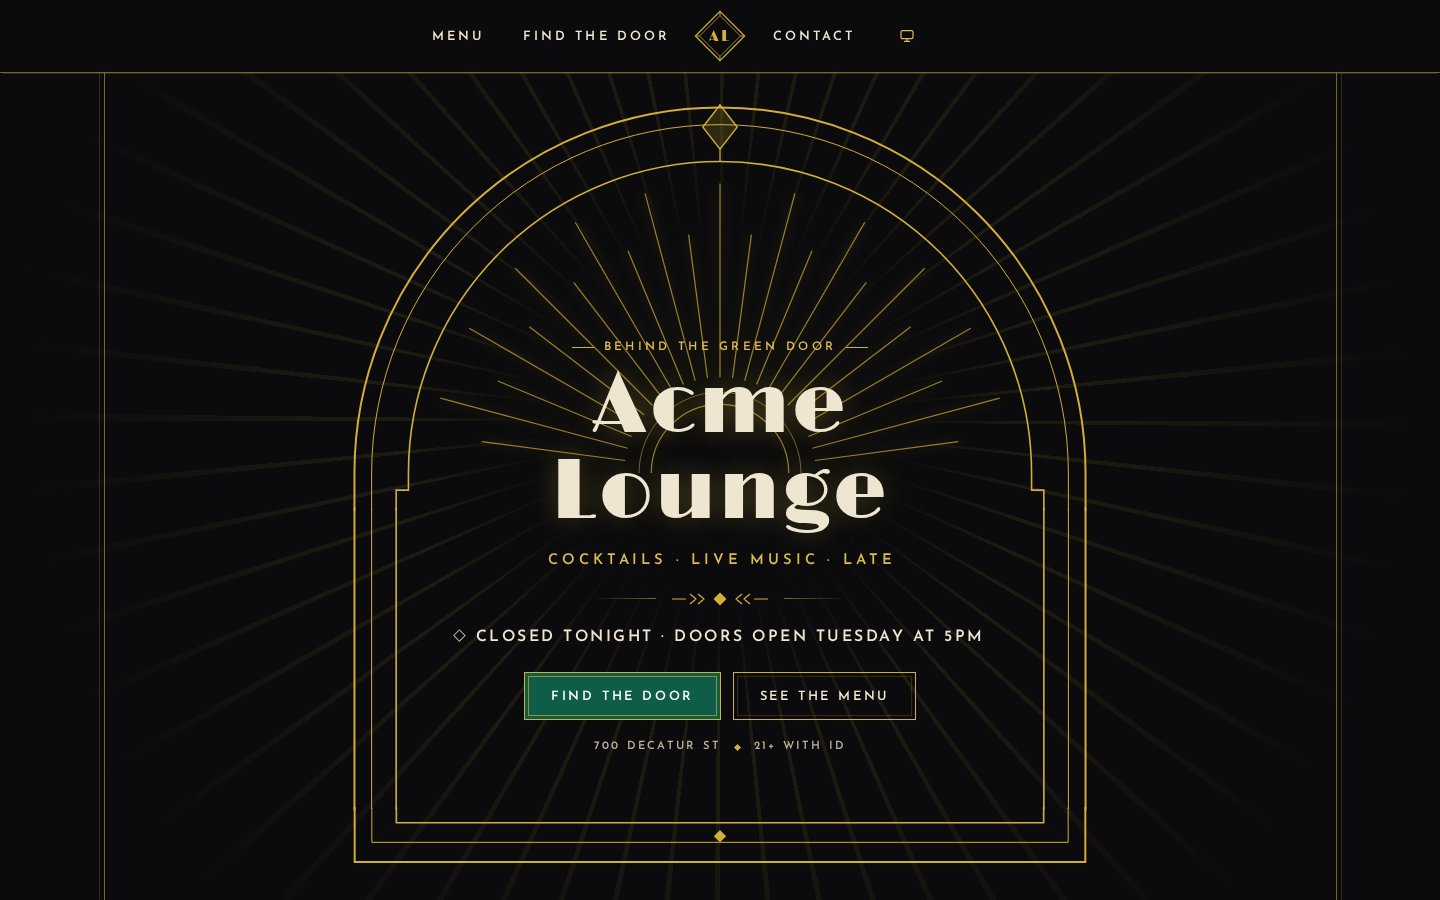
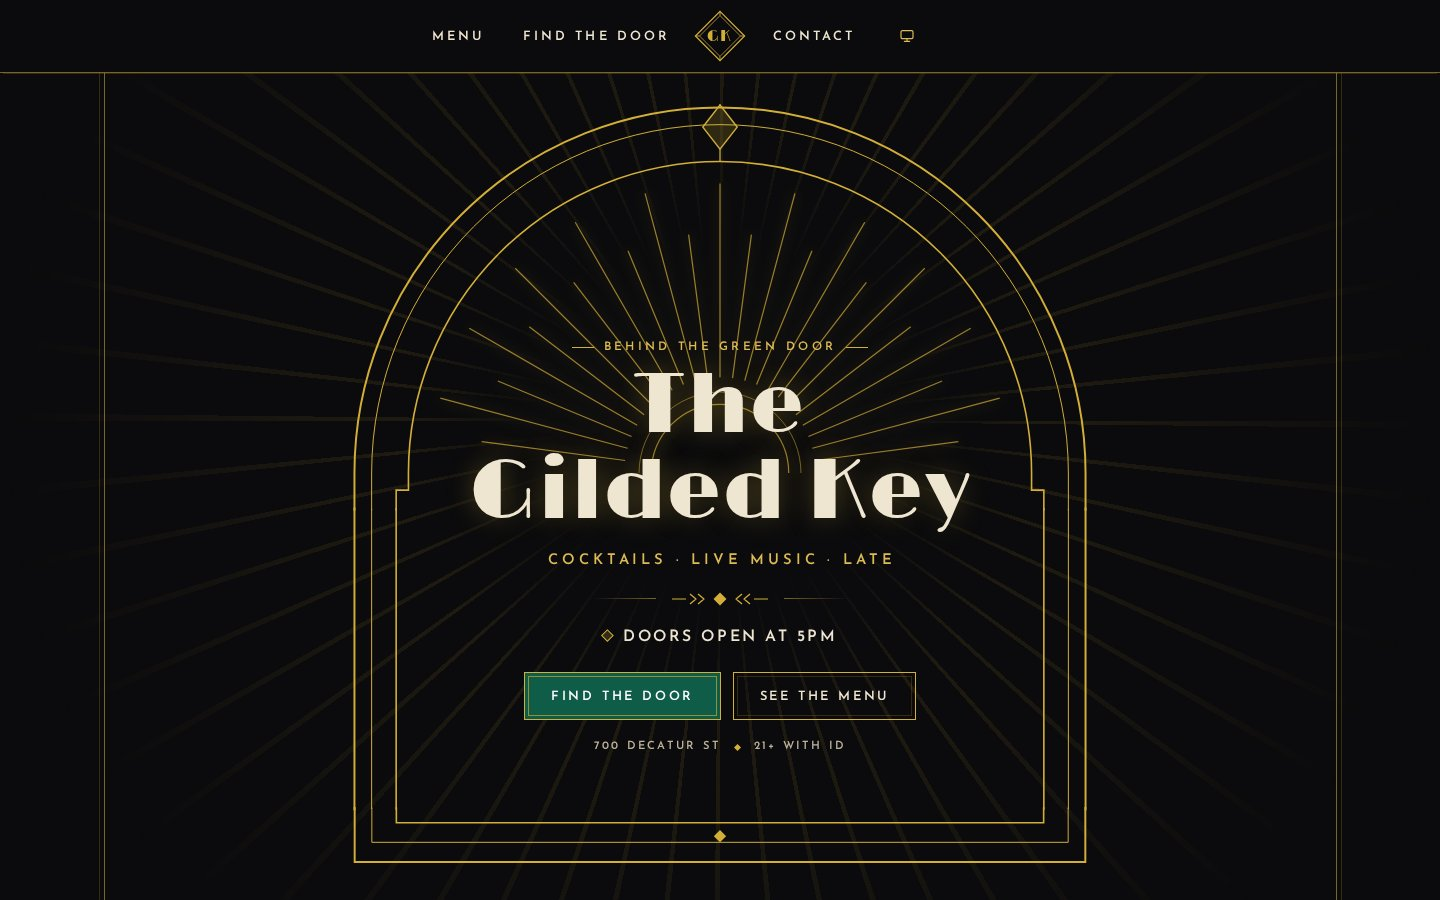
Update branding and design

Changed region(s): [[0.3125, 0.4044, 0.6875, 0.5911], [0.3125, 0.6844, 0.6875, 0.7156]]

diff --git a/content/lounge.ts b/content/lounge.ts
@@ -29,7 +29,7 @@ export interface MusicNight {
    * (Saturday 22:00–01:00 ends at 1am Sunday). Must be no later than closing time.
    */
   ends: string;
-  /** Who's playing, written to follow "with", e.g. "the Acme Trio". Use fictitious names in samples. */
+  /** Who's playing, written to follow "with", e.g. "the Brass Lamp Trio". Use fictitious names in samples. */
   act: string;
   /** One or two lowercase words to follow "Live", e.g. "jazz" or "piano". */
   genre: string;
@@ -125,14 +125,14 @@ export interface Lounge {
 }
 
 export const lounge: Lounge = {
-  name: 'Acme Lounge',
-  monogram: 'AL',
+  name: 'The Gilded Key',
+  monogram: 'GK',
   tagline: 'Cocktails · live music · late',
   welcome: 'Behind the green door',
   introduction:
     'A small cocktail lounge behind an unmarked door off Jackson Square. Seated service, a short card of house cocktails and classics, zero-proof drinks made with the same care, and live music three nights a week.',
   story: [
-    'Acme Lounge began as a storeroom with a beautiful ceiling. We kept the plasterwork, hung brass lamps over twelve tables and a long walnut bar, and left the door without a sign.',
+    'The Gilded Key began as a storeroom with a beautiful ceiling. We kept the plasterwork, hung brass lamps over twelve tables and a long walnut bar, and left the door without a sign.',
     'Our bartenders build every drink to order, juice citrus by hand each afternoon and treat a zero-proof cocktail exactly like any other.',
   ],
   email: 'hello@example.com',
@@ -168,7 +168,7 @@ export const lounge: Lounge = {
   lastCallMinutes: 30,
   notice: '',
   music: [
-    { day: 'Thursday', starts: '20:30', ends: '23:30', act: 'the Acme Trio', genre: 'jazz' },
+    { day: 'Thursday', starts: '20:30', ends: '23:30', act: 'the Brass Lamp Trio', genre: 'jazz' },
     { day: 'Friday', starts: '21:00', ends: '00:00', act: 'the Night Owl Quartet', genre: 'swing' },
     { day: 'Saturday', starts: '22:00', ends: '01:00', act: 'Celeste Arden', genre: 'piano' },
   ],
@@ -217,7 +217,7 @@ export const lounge: Lounge = {
     },
     {
       question: 'What’s your age policy?',
-      answer: 'Acme Lounge is 21+ only, and everyone needs valid photo ID at the door, whatever your age. We can’t make exceptions.',
+      answer: 'The Gilded Key is 21+ only, and everyone needs valid photo ID at the door, whatever your age. We can’t make exceptions.',
     },
   ],
   links: [

diff --git a/tests/tonight.test.ts b/tests/tonight.test.ts
@@ -22,7 +22,7 @@ const week: OpeningHours[] = [
   { day: 'Sunday' },
 ];
 const music: MusicNight[] = [
-  { day: 'Thursday', starts: '21:00', ends: '23:30', act: 'the Acme Trio', genre: 'jazz' },
+  { day: 'Thursday', starts: '21:00', ends: '23:30', act: 'the Brass Lamp Trio', genre: 'jazz' },
   { day: 'Saturday', starts: '22:00', ends: '01:00', act: 'Celeste Arden', genre: 'piano' },
 ];
 const status = (day: (typeof DAYS)[number], time: string) => statusAt(day, at(time), week, 30);
@@ -155,12 +155,12 @@ test('a midnight close ends exactly at midnight', () => {
 test('tonight’s music: upcoming, playing, then gone', () => {
   const before = tonight('Thursday', '18:00');
   assert.ok(before && !before.playing);
-  assert.equal(musicText(before), 'Live jazz with the Acme Trio from 9pm');
+  assert.equal(musicText(before), 'Live jazz with the Brass Lamp Trio from 9pm');
   // Before the doors open, the evening's set is already "tonight".
   assert.equal(tonight('Thursday', '12:00')?.playing, false);
   const during = tonight('Thursday', '22:00');
   assert.ok(during?.playing);
-  assert.equal(musicText(during), 'Live jazz with the Acme Trio until 11:30pm');
+  assert.equal(musicText(during), 'Live jazz with the Brass Lamp Trio until 11:30pm');
   assert.equal(tonight('Thursday', '23:30'), null);
 });
 

diff --git a/lib/tonight.ts b/lib/tonight.ts
@@ -217,7 +217,7 @@ export function musicTonight(day: Day, minutes: number, status: Status, music: M
   return { set, playing: now >= starts };
 }
 
-/** "Live jazz with the Acme Trio from 9pm", or "… until 11:30pm" while it's playing. */
+/** "Live jazz with the Brass Lamp Trio from 9pm", or "… until 11:30pm" while it's playing. */
 export function musicText(tonight: TonightMusic): string {
   const { set, playing } = tonight;
   return `Live ${set.genre} with ${set.act} ${playing ? `until ${formatTime(set.ends)}` : `from ${formatTime(set.starts)}`}`;

diff --git a/lib/site.ts b/lib/site.ts
@@ -1,7 +1,7 @@
 // Public values resolved by lib/config.mjs and substituted by Next.js at build time.
 // No runtime configuration API is needed to render the website.
 export const site = {
-  name: process.env.NEXT_PUBLIC_SITE_NAME ?? 'Acme Lounge',
+  name: process.env.NEXT_PUBLIC_SITE_NAME ?? 'The Gilded Key',
   description: process.env.NEXT_PUBLIC_SITE_DESCRIPTION ?? '',
   domain: process.env.NEXT_PUBLIC_SITE_DOMAIN ?? '',
   /** IANA time zone for opening hours (site.config.json `timeZone`), or '' when not set. */

diff --git a/components/tonight.tsx b/components/tonight.tsx
@@ -21,7 +21,7 @@ export function StatusLine({ fallback, className = '' }: { fallback: string; cla
 }
 
 /**
- * Tonight's music: "Tonight · Live jazz with the Acme Trio from 9pm", or "Playing now" while it's on.
+ * Tonight's music: "Tonight · Live jazz with the Brass Lamp Trio from 9pm", or "Playing now" while it's on.
  * Shows `fallback` (the week's music nights) before the browser knows the time, and nothing on a night
  * without music.
  */

diff --git a/app/tailwind.input.css b/app/tailwind.input.css
@@ -1,4 +1,4 @@
-/* Acme Lounge styles: Tailwind CSS v4 plus this template's customizations.
+/* The Gilded Key styles: Tailwind CSS v4 plus this template's customizations.
    Components use Tailwind utility classes; this file holds what utilities can't:
    1. colour tokens for light/dark   2. the Tailwind theme built from them
    3. base element styles           4. shared building blocks (.button, .deco-frame, .eyebrow, ...)

diff --git a/README.md b/README.md
@@ -1,4 +1,4 @@
-# Acme Lounge (Next.js)
+# The Gilded Key (Next.js)
 
 An art-deco speakeasy theme in black, gold and emerald for cocktail bars and lounges: a signature cocktail menu with each drink drawn in its own glass, a flavour map to help guests choose, zero-proof drinks, live music nights, a "find the door" guide, dress code, late hours, location and a [Jamstacks](https://jamstacks.net) contact component for private hire and events.
 
@@ -6,7 +6,7 @@ The site is laid out like an engraved invitation and a gilded cocktail card: a s
 
 It exports to plain static files, deploys to GitHub Pages (custom domain or `/repository/` path) and works with no backend.
 
-**Acme Lounge**, its story, drinks, music acts and contact details are fictitious placeholders. The sample address is a public landmark, Jackson Square in New Orleans, so the map has something real to show. Replace all of them with your own.
+**The Gilded Key**, its story, drinks, music acts and contact details are fictitious placeholders. The sample address is a public landmark, Jackson Square in New Orleans, so the map has something real to show. Replace all of them with your own.
 
 ## Pages
 
@@ -93,7 +93,7 @@ The glass drawing is made from `glass`, `color`, `layered` and `garnish`, so a n
 Your time zone is `timeZone` in [site.config.json](site.config.json), an IANA name such as `America/Chicago`. With it, the visitor's browser works out, using *your* clock and refreshing every minute:
 
 - the status line in the portal, Find the door and the menu: "Doors open at 5pm", "Open · last call 1:30am", "Last call in 20 minutes", "After last call · doors close at 2am" or "Closed tonight · doors open Tuesday at 5pm";
-- tonight's music, "Live jazz with the Acme Trio from 8:30pm", marked "Playing now" while it's on (1am on a Saturday night is still Saturday's set);
+- tonight's music, "Live jazz with the Brass Lamp Trio from 8:30pm", marked "Playing now" while it's on (1am on a Saturday night is still Saturday's set);
 - "Tonight" on the week's programme;
 - and "Times shown in Central Time" (or your zone) beside the hours.
 
@@ -140,7 +140,7 @@ The footer ends with "with ❤ [jamstacks.net](https://jamstacks.net)". It's 
 
 ```json
 {
-  "name": "Acme Lounge",
+  "name": "The Gilded Key",
   "description": "A cocktail lounge behind an unmarked door on Jackson Square: signature cocktails and classics, zero-proof drinks, live music and late hours.",
   "domain": "next-cocktail-speakeasy.jamstacks.net",
   "timeZone": "America/Chicago",
@@ -252,7 +252,7 @@ jamstacks/              optional template publishing metadata and gallery captur
 
 ## Before publishing your website
 
-- Replace Acme Lounge, the monogram, story, address (and its `note`), directions, find-the-door steps, email, phone, drinks, prices, music, dress code, house rules, FAQs and social links with your own details.
+- Replace The Gilded Key, the monogram, story, address (and its `note`), directions, find-the-door steps, email, phone, drinks, prices, music, dress code, house rules, FAQs and social links with your own details.
 - Set your real opening hours (late nights as `closes: '02:00'`), `lastCallMinutes` and `timeZone` in `site.config.json`, and check the status line on the home page.
 - Replace the demo `domain` in `site.config.json` with your own (or set the correct Pages URL), and update the site title/description, icon and social preview image.
 - Run `npm run check` and a project-path build when using a repository URL.
